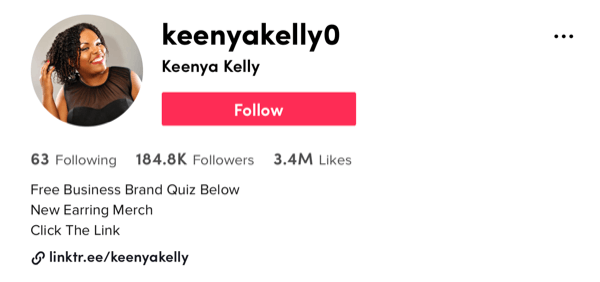
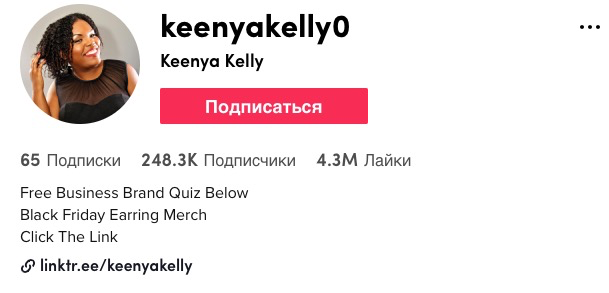
1

diff --git a/_posts/2020-12-02-tiktok-content-marketing.md b/_posts/2020-12-02-tiktok-content-marketing.md
@@ -24,8 +24,8 @@ categories:
 
 Она начала искать в TikTok такие термины, как «маркетинг» и «брендинг», и нашла сотни маркетологов с огромным количеством подписчиков, которые строили свой бизнес в TikTok. Поскольку TikTok - это платформа, в первую очередь развлекательная, Кинья решила обучать через развлечение.
 
-Сегодня у Киньи уже более 300 000 подписчиков в TikTok.
-![Скриншот профиля @KeenyaKelly0 с 300 000 подписчиков]({{ site.baseurl }}/assets/images/tiktok-content-marketing1.png)
+Сегодня у Киньи уже 248 000 подписчиков в TikTok.
+![Скриншот профиля @KeenyaKelly0 с 248 000 подписчиков]({{ site.baseurl }}/assets/images/tiktok-content-marketing1.png)
 
 ## Какие преимущества TikTok даёт маркетологам?
 
